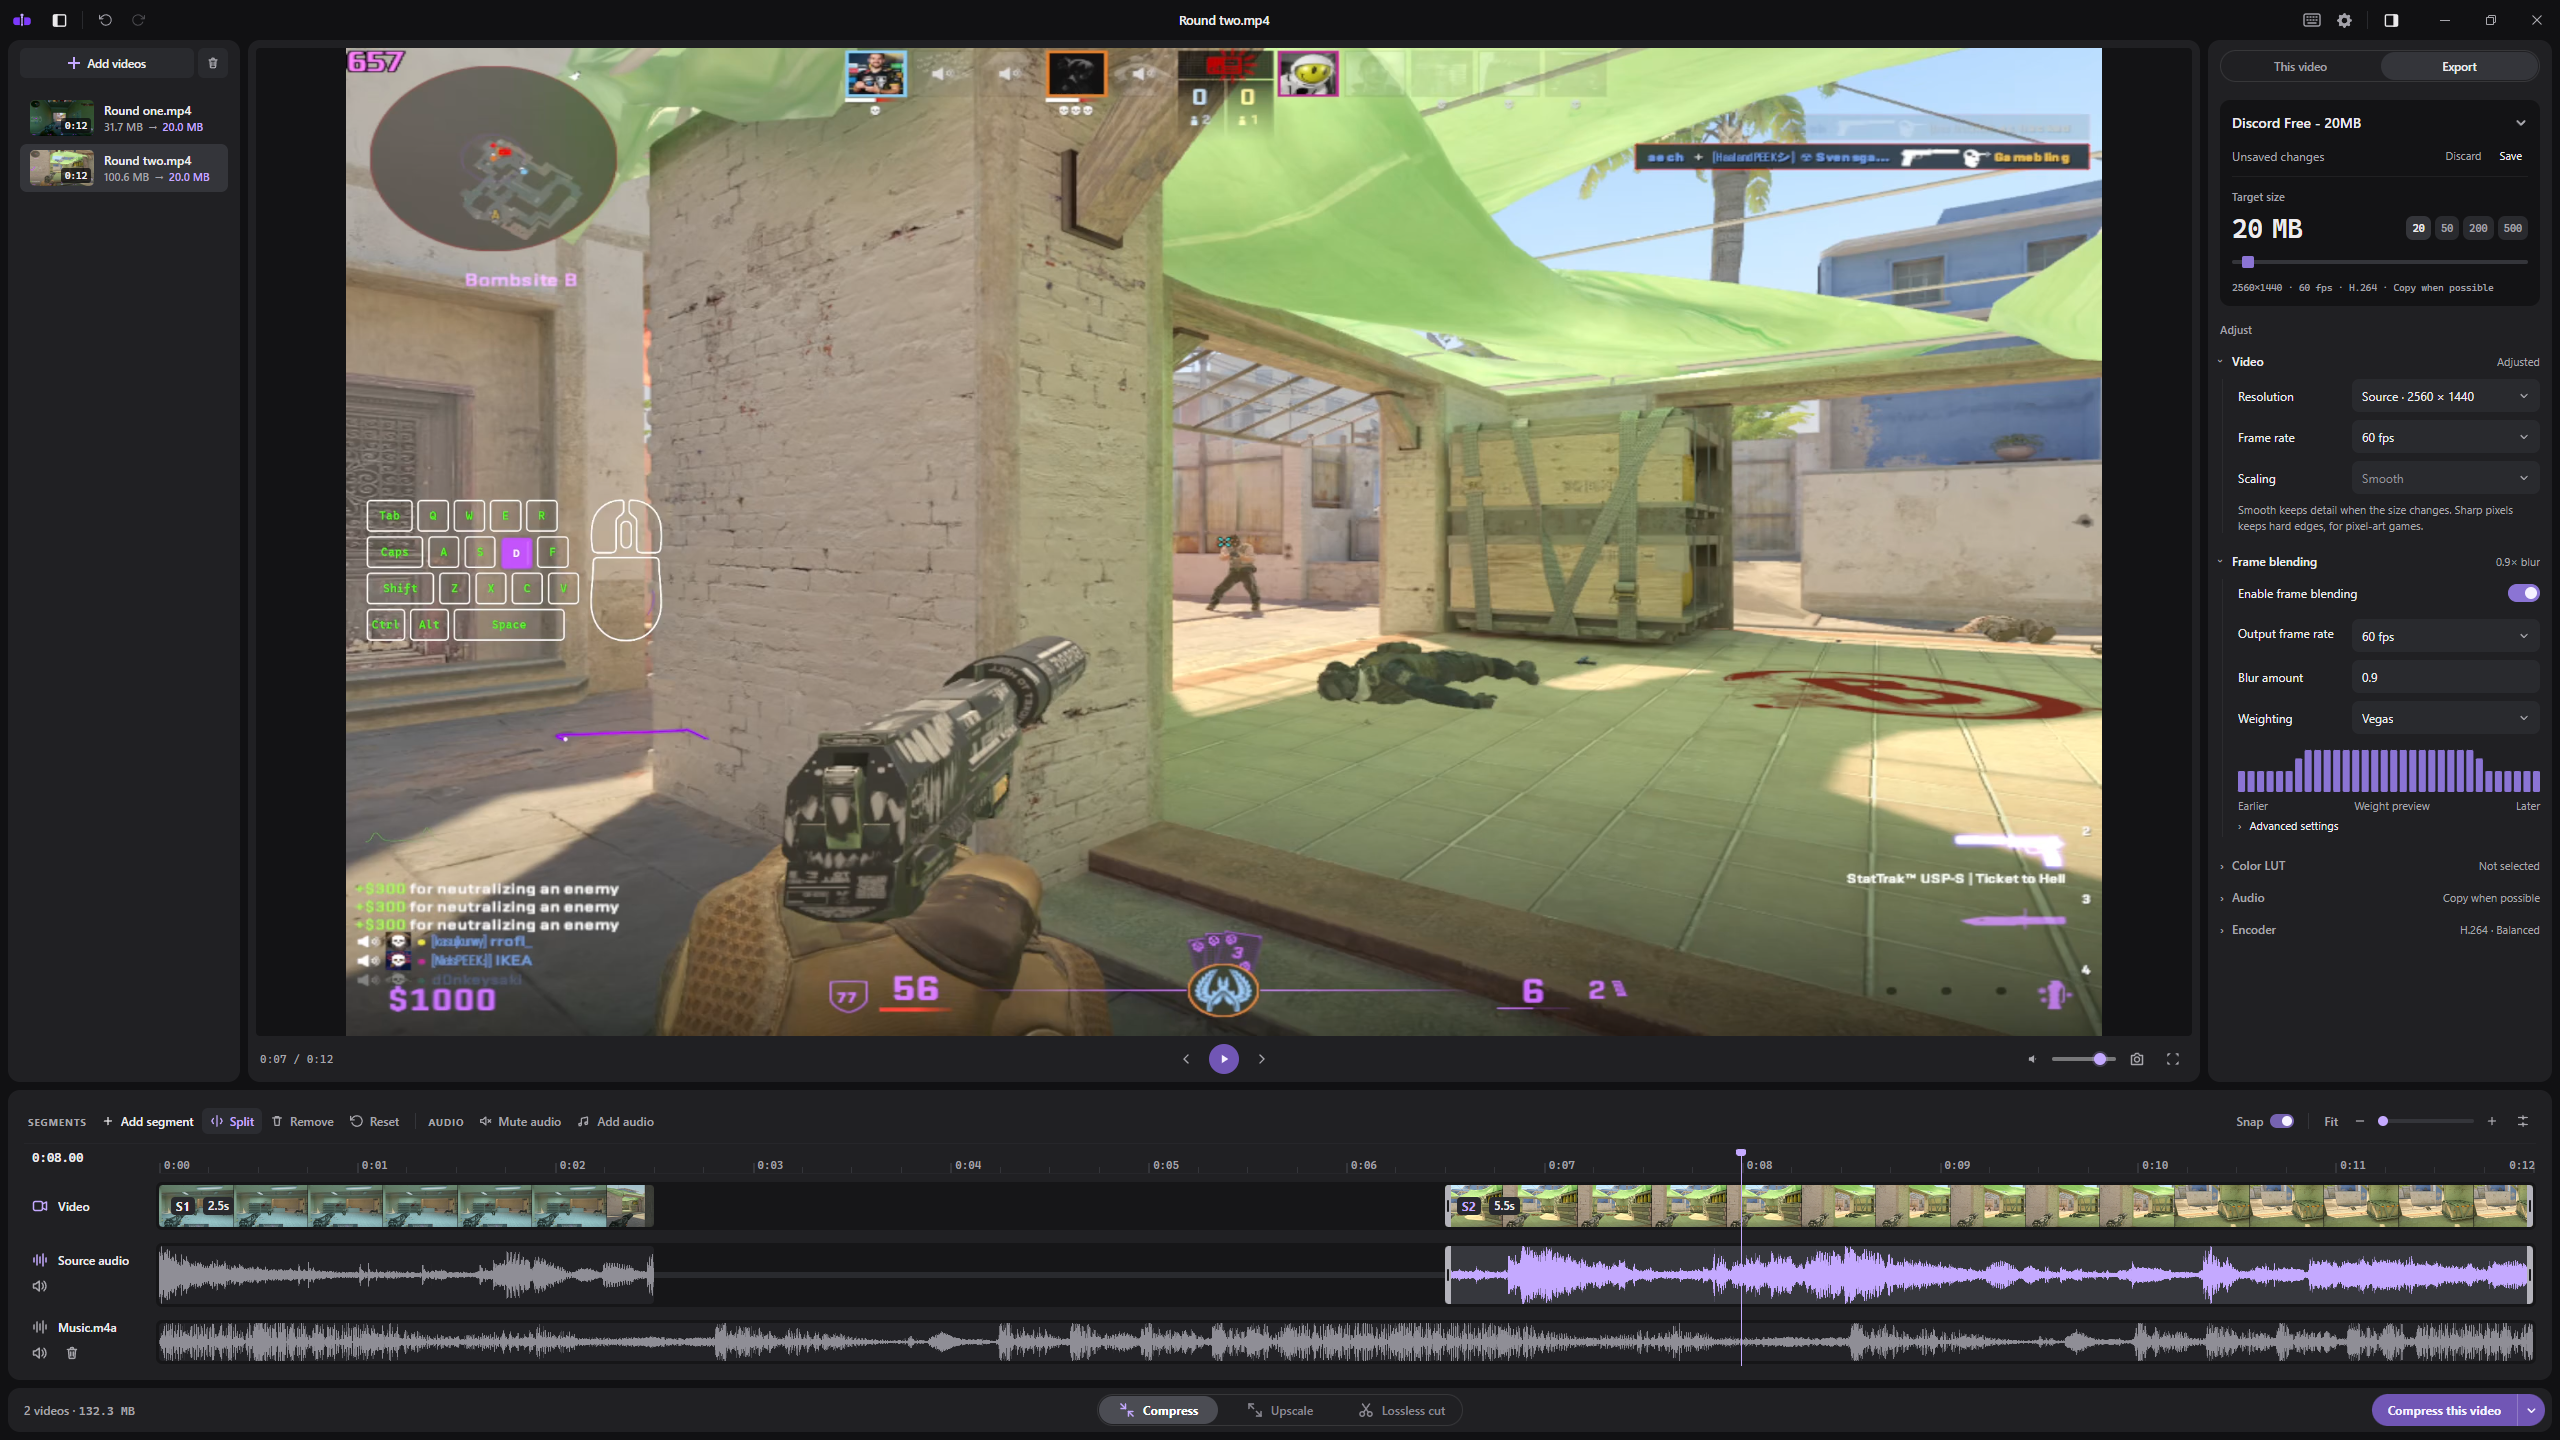
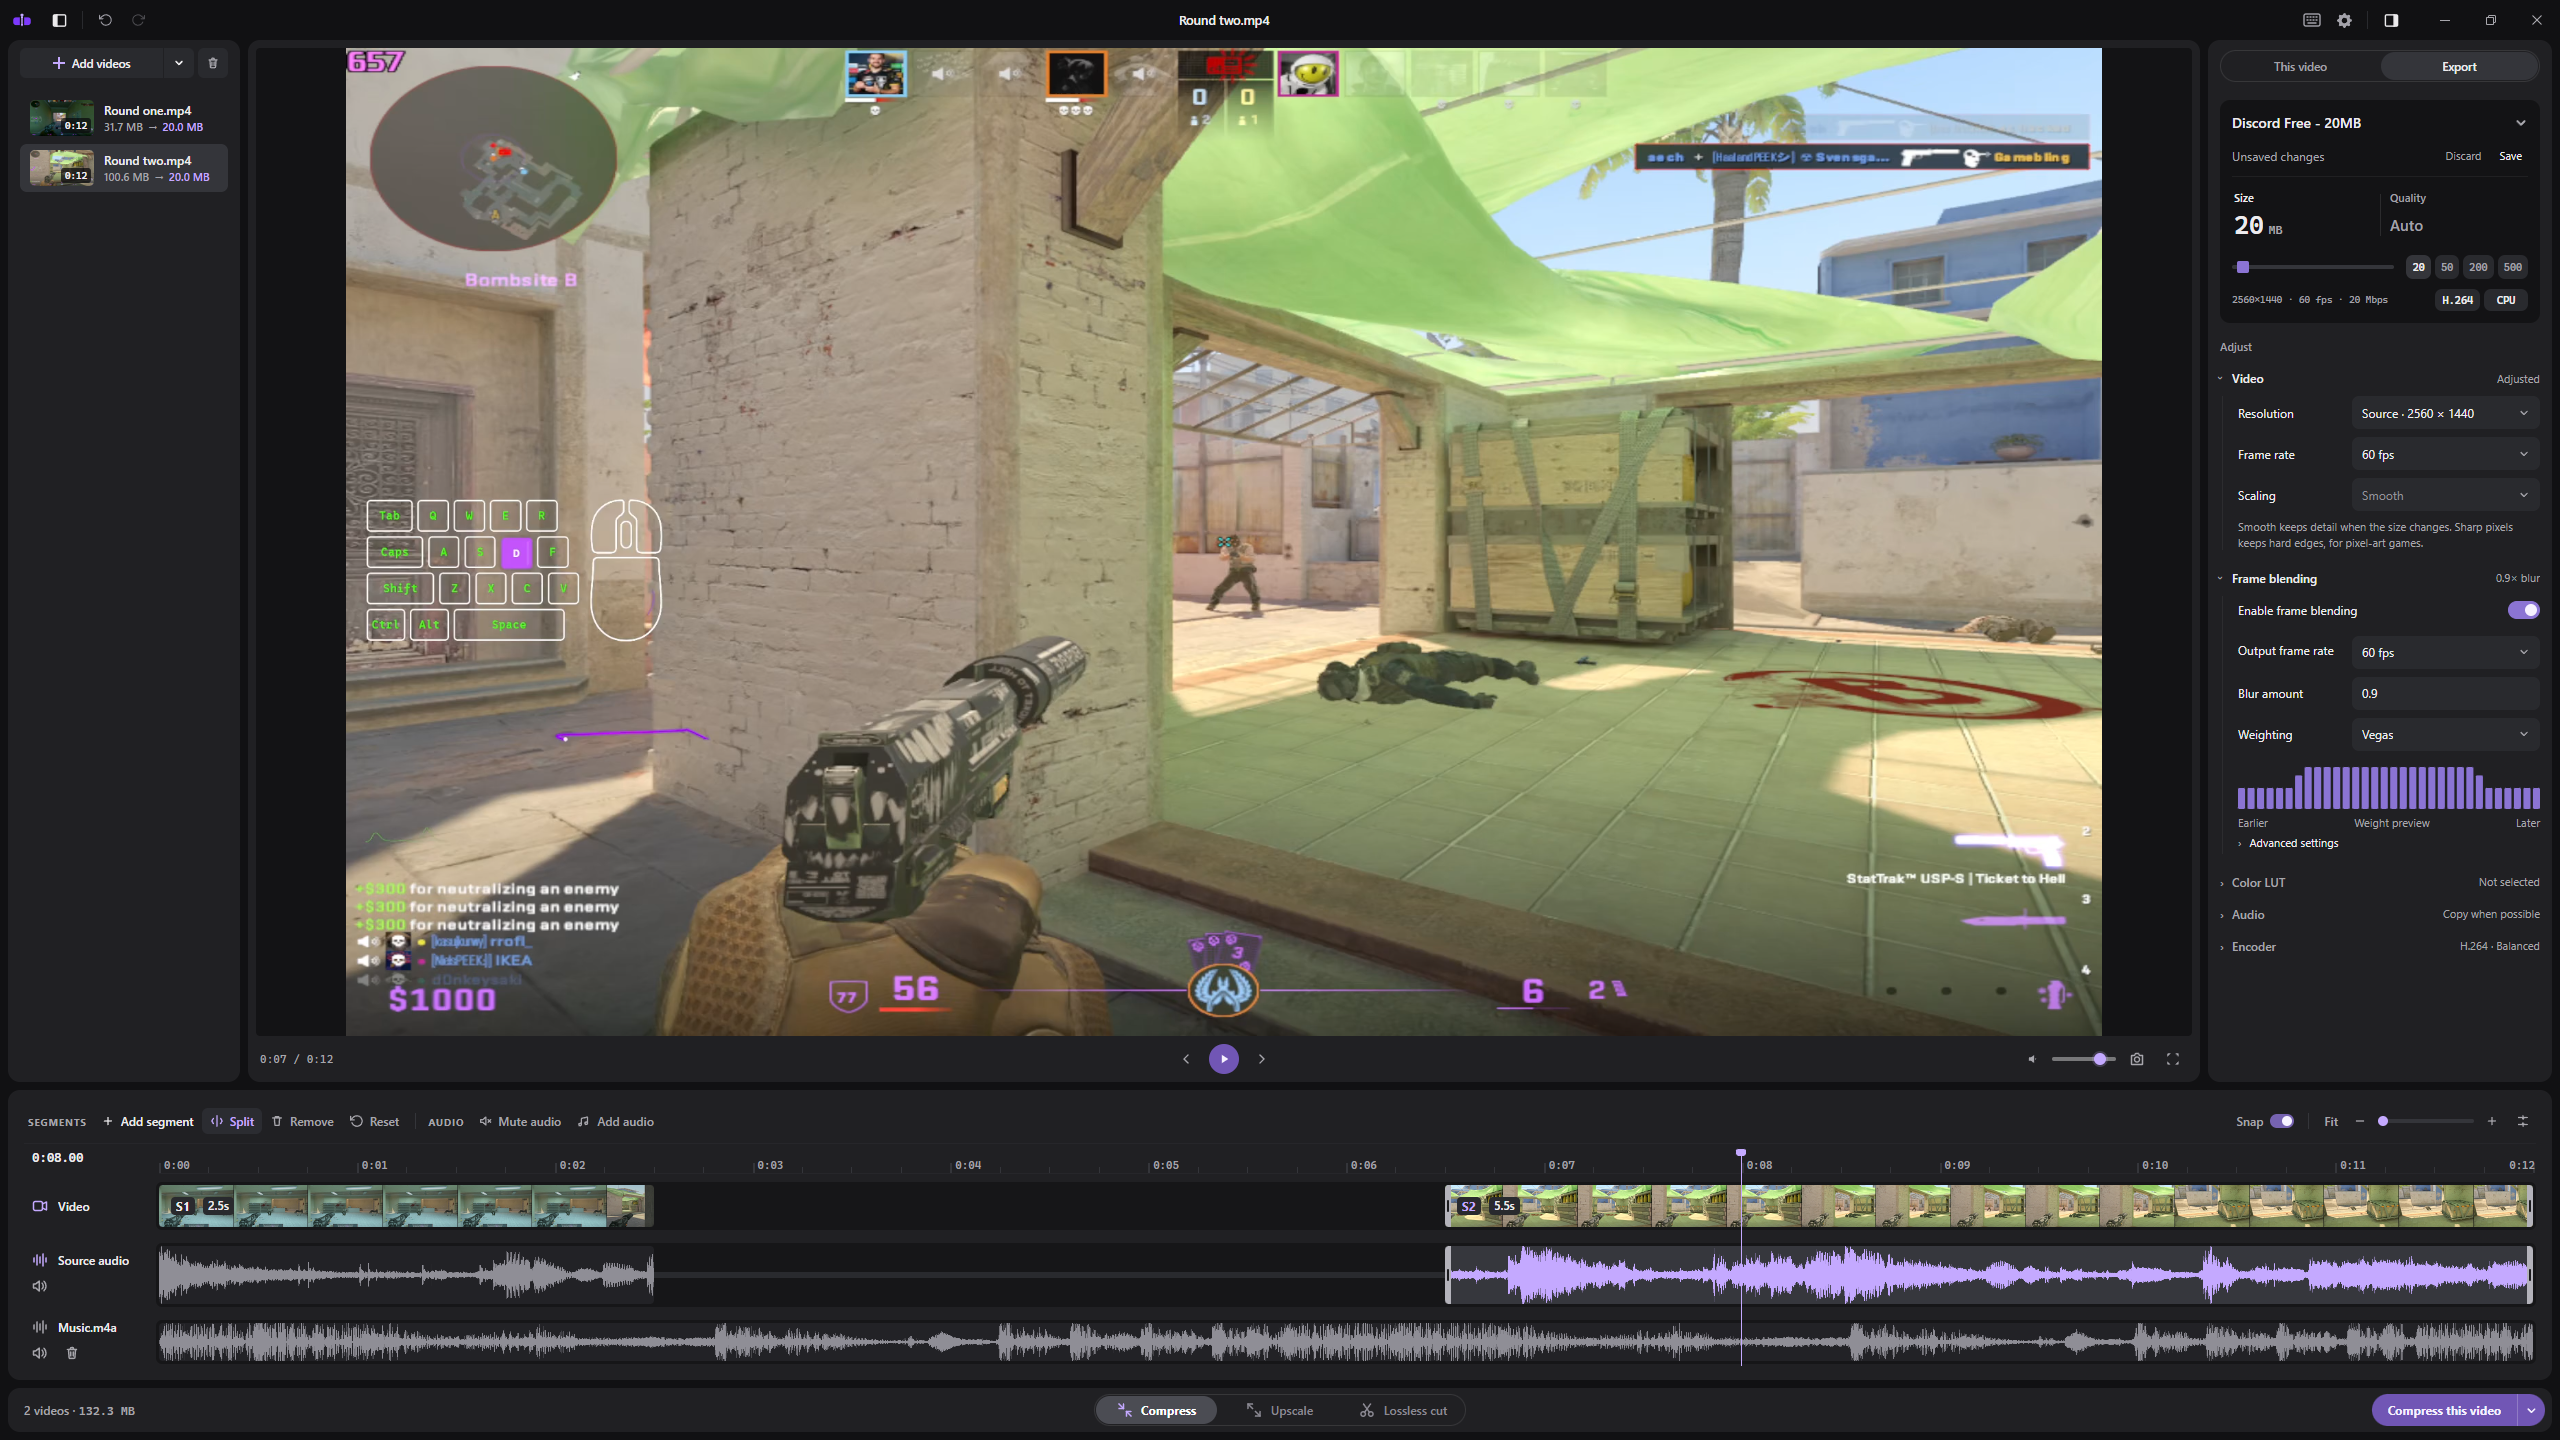
Release 0.7.1

diff --git a/scripts/verify_package.py b/scripts/verify_package.py
@@ -52,7 +52,7 @@ STAGING_APP = ROOT / "packaging" / "staging" / "app"
 MANIFEST = ROOT / "packaging" / "staging" / "manifest.json"
 LOCK = ROOT / "packaging" / "ffmpeg-sources.lock.json"
 WEBVIEW2_LOCK = ROOT / "packaging" / "webview2-bootstrapper.lock.json"
-EXPECTED_VERSION = "0.7.0"
+EXPECTED_VERSION = "0.7.1"
 _LINUX_SOURCE_LICENSES = {
     "ffmpeg": "GPL-2.0-or-later",
     "x264": "GPL-2.0-or-later",

diff --git a/tuck/__init__.py b/tuck/__init__.py
@@ -1,1 +1,1 @@
-__version__ = "0.7.0"
+__version__ = "0.7.1"

diff --git a/README.md b/README.md
@@ -28,7 +28,7 @@
 
 Tuck is a free and open-source video editor for Windows and Linux, built on FFmpeg. Use it to cut out the parts you don't want, edit the audio, crop a video for a phone screen, or get it under an upload limit.
 
-<img src="docs/screenshots/editor.png" alt="The Tuck editor with the Export tab open: a 20 MB target, frame blending from 300 to 60 fps, and a timeline with the middle part removed and music added">
+<img src="docs/screenshots/editor.png" alt="The Tuck editor with the Export tab open: a size of 20 MB, frame blending from 300 to 60 fps, and a timeline with the middle part removed and music added">
 
 ## Download
 
@@ -49,18 +49,19 @@ If anything goes wrong, see the [install guide](https://tuck.video/guide/#instal
 - Cut out what you don't want. The timeline shows thumbnails to help you find the right spot, and playback skips what you cut, so you see the result before you export.
 - If your recording has separate game and mic audio, each one gets its own row and volume. You can add music, even out the loudness, and export everything as one track or keep the tracks separate.
 - Crop by dragging on the video, or pick a ratio like 9:16 for TikTok or YouTube Shorts. You can also rotate, flip, and resize.
-- Tell Tuck a size, like 20 or 50 MB, and it picks the quality so the video fits under an upload limit.
+- Tell Tuck a size, like 20 or 50 MB, and it picks the quality so the video fits under an upload limit. Or pick a quality level, and Tuck shows about how big the file will be.
 - **Lossless cut** doesn't re-encode, so you keep the original quality and the export is much faster. Each part has to start on a keyframe, so it may begin a moment after your cut. Switch to **Exact** when that matters.
 - Join several videos into one, or copy one video's edits onto others.
 - Upscale to 1440p, 4K, or any size you like.
 - Turn a 240 fps recording into smooth 60 fps video with motion blur.
 - Add a LUT (a `.cube` file) to change the look, and split the preview to see before and after.
 - Save any frame as a full-resolution PNG.
+- Add a whole folder of videos at once, then compress all of them or just the ones you pick.
 - Queue up several exports and retry any that fail. Exports you didn't finish come back the next time you open Tuck.
-- Copy finished files and paste them into a chat or a folder. On Linux you can drag them out of Tuck, too.
+- Copy finished files and paste them into a chat or a folder, or have Tuck copy a video as soon as it's exported. On Linux you can drag them out of Tuck, too.
 - Your graphics card plays the preview and can speed up exports: NVIDIA or AMD on Windows, and NVIDIA, Intel, or AMD on Linux. Tuck only offers what works on your computer.
 - Save your usual settings as a profile. On Windows, add it to File Explorer's **Send To** menu and send videos to it with a right-click.
-- On Windows, you can also compress from a terminal with `tuck compress clip.mp4 --size 25`. The [command line guide](https://tuck.video/guide/#command-line) shows the rest.
+- On Windows, you can also compress from a terminal with `tuck compress clip.mp4 --size 25` or `--quality 23`. The [command line guide](https://tuck.video/guide/#command-line) shows the rest.
 
 <img src="docs/screenshots/crop.png" alt="A 9:16 crop frame with its handles over a 16:9 gameplay video">
 

diff --git a/CHANGELOG.md b/CHANGELOG.md
@@ -1,5 +1,36 @@
 # Changelog
 
+## [0.7.1] - 2026-11-05
+
+### Size or Quality
+
+Compress can now aim for a quality level instead of a size. The Export card shows Size and Quality side by side, and with Quality picked, Tuck estimates how big the file will be.
+
+- Works in profiles, Send To and the command line (`--quality`)
+- Files are named by their level, like `clip_tucked_CRF23.mp4`
+
+### Added
+
+- Add a whole folder of videos
+- Compress only the videos you chose in the Library
+- Codec and CPU or GPU buttons on the Export card
+- Show in folder and Copy file in the Library's right-click menu
+- Option to copy a video when its export finishes
+
+### Changed
+
+- Target size is now called Size
+- Faster opening and closing, especially after a reboot or update
+- Timeline frames and waveforms appear sooner
+- Faster exports to a size limit, usually one encode instead of two
+- Videos sent to an open Tuck are shown right away
+- Starting and closing screens only appear when Tuck is slow
+
+### Fixed
+
+- Black window with hardware playback on NVIDIA on Linux
+- White flash when Tuck opens
+
 ## [0.7.0] - 2026-10-28
 
 ### Hardware playback
